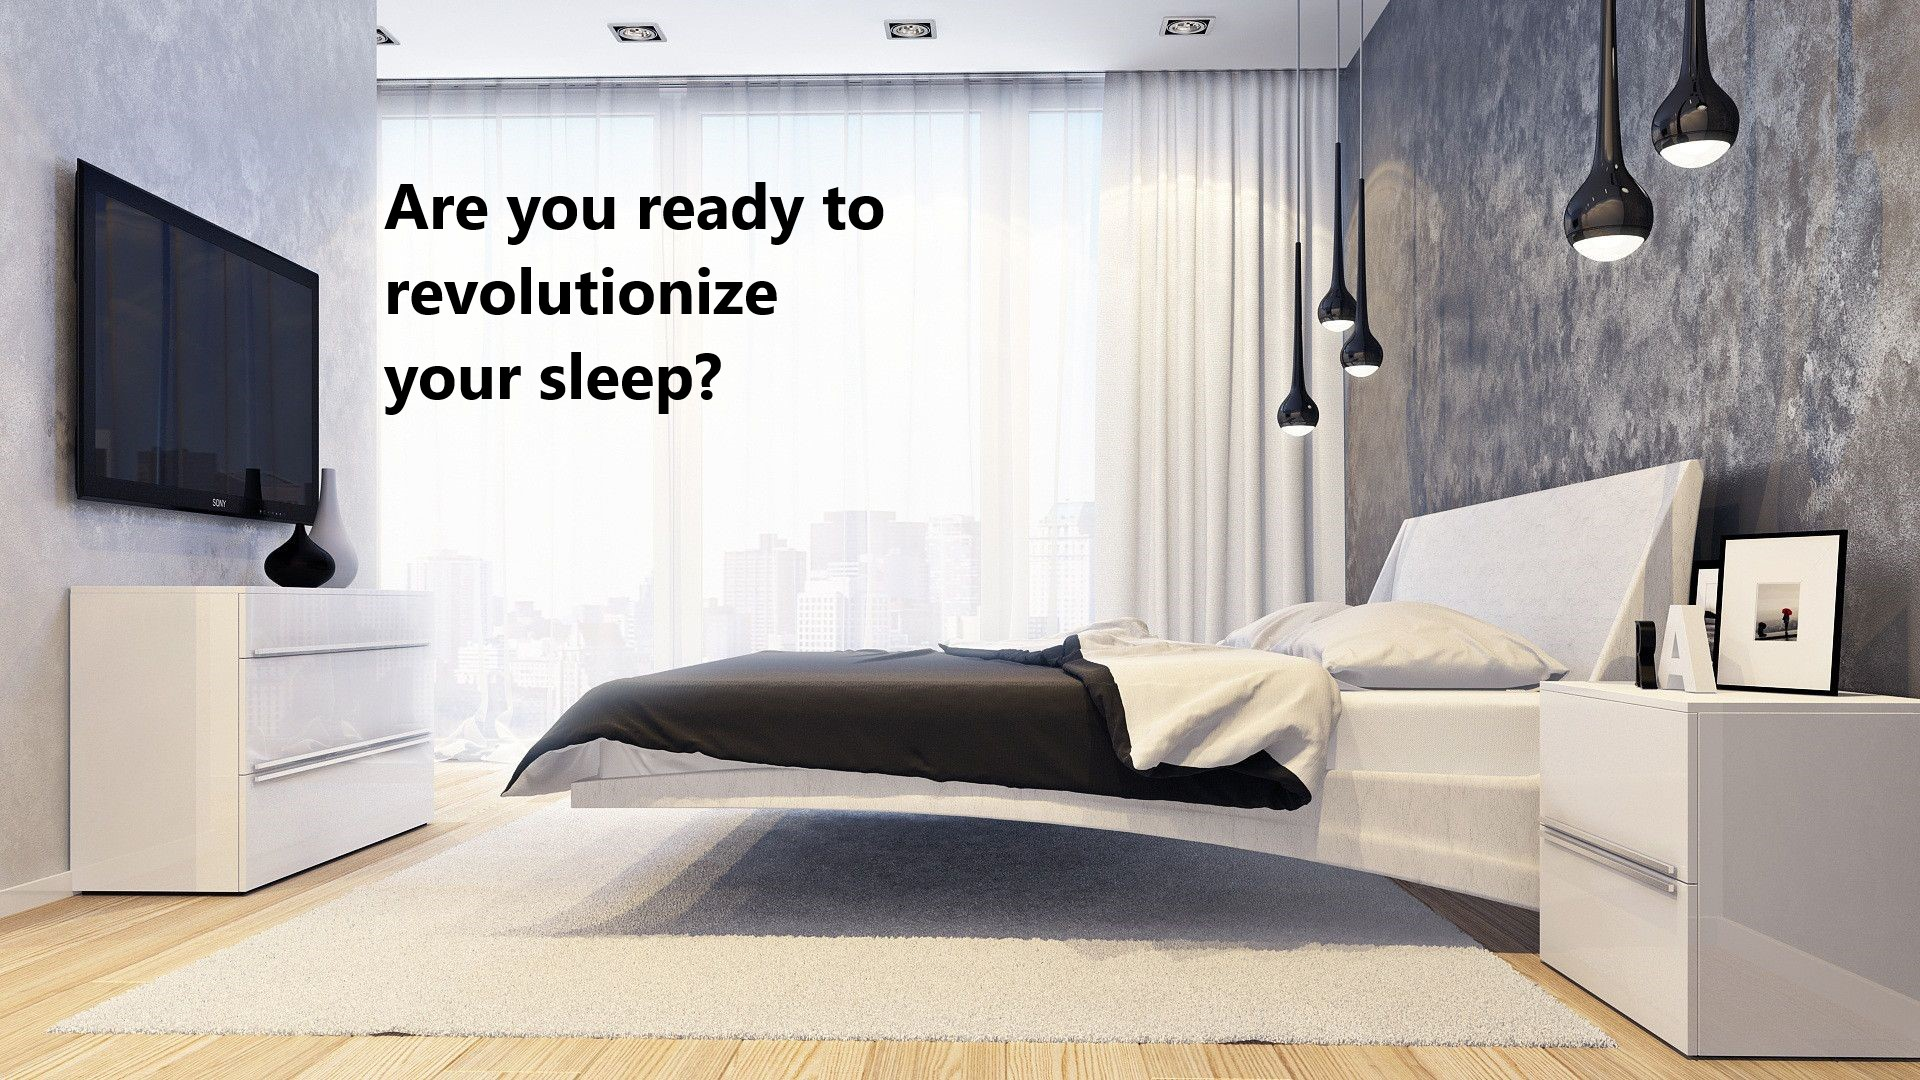
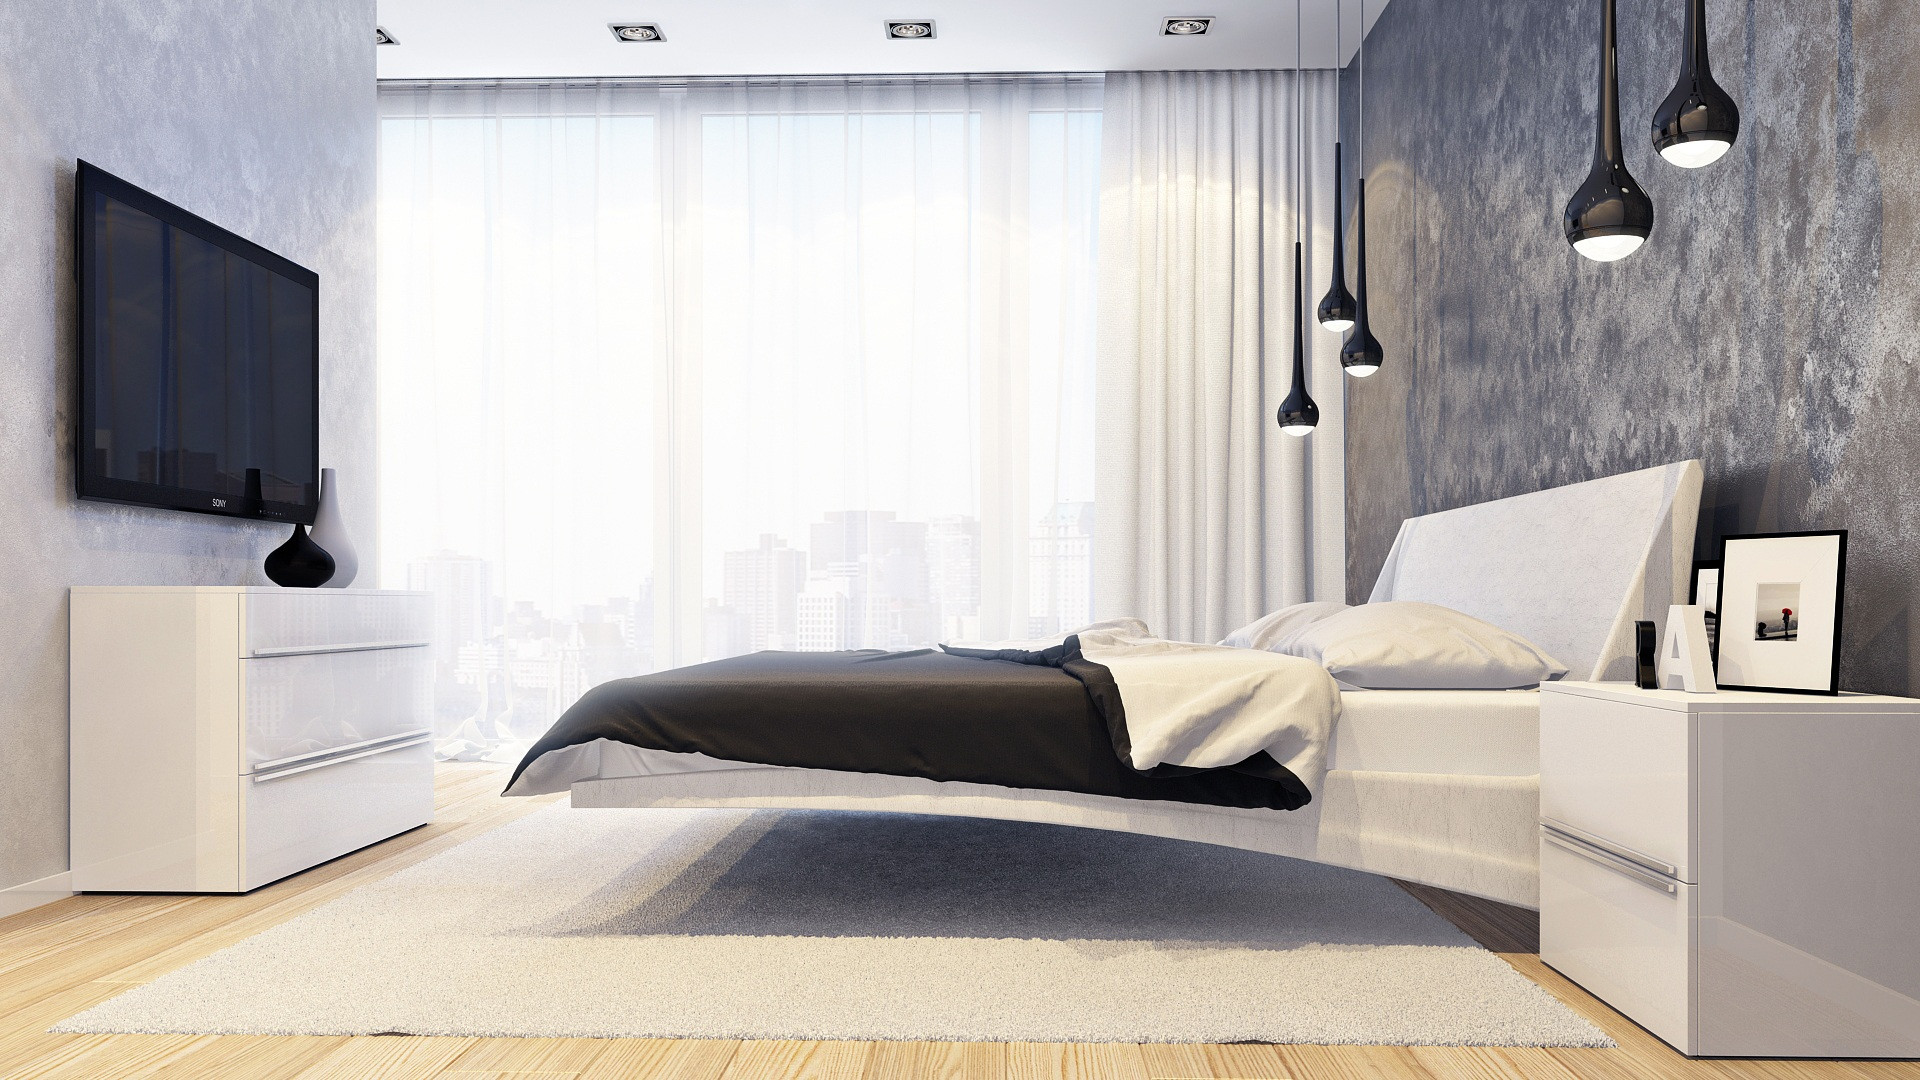
Registration page has been created

Changed region(s): [[0.1875, 0.2444, 0.4062, 0.3972], [0.1875, 0.1528, 0.4688, 0.2139]]

diff --git a/src/components/home/LandPage.vue b/src/components/home/LandPage.vue
@@ -1,5 +1,6 @@
 <template>
   <div id='home-background'>
+      <div id='tag-line'>Are you ready to revolutionize your sleep?</div>
       <div id='home-login'>
           <div id='signup-text'>Sign up now to start the journey</div>
           <input id='firstname' type='text' placeholder="First Name">
@@ -14,24 +15,27 @@
 </template>
 
 <script>
+import './signUpCheck.js'
+import signUpCheck from './signUpCheck.js'
 export default {
     name: 'LandPage',
     mounted(){
         console.log("Width", window.innerWidth)
         this.$nextTick(()=>{
-            if(window.innerWidth < 1500){
+            if(window.innerWidth < 1500 && window.innerWidth > 850){
                 this.mediumConfig()
             }
         })
     },
     methods: {
+        // At 850 we need a small config
         mediumConfig() {
             document.getElementById('home-login').style.height = '45vh'
             document.getElementById('home-login').style.width = '28vw'
-            document.getElementById('bottom-text').style.left = '15%'
+            document.getElementById('bottom-text').style.marginTop = '12vh'
         },
         signUpClicked (){
-            console.log("The sign up button was clicked")
+            signUpCheck(document.getElementById('firstname').value,document.getElementById('lastname').value,document.getElementById('email').value)
         }
     }
 }
@@ -39,9 +43,19 @@ export default {
 
 <style scoped>
 #home-background{
+    font-family: 'Roboto', sans-serif;
     height: 92vh;
     width: 100vw;
-    background-color: #03045e;
+    background-image: url("../../assets/Bedroom.jpg");
+    background-size: 100vw 92vh;
+}
+#tag-line{
+    position: absolute;
+    top: 25vh;
+    left: 20vw;
+    font-size: 5vh;
+    font-weight: bold;
+    width: 25vw;
 }
 #home-login{
     position: absolute;
@@ -49,20 +63,19 @@ export default {
     left: 60vw;
     height: 35vh;
     width: 26vw;
-    background-color: #0077b6;
+    background-color: #17183B;
     border-radius: 2vh;
 }
 #signup-text{
-    position: relative;
-    top: 3vh;
-    margin-left: 15%;
+    margin-top: 2vh;
+    text-align: center;
     color: white;
     font-size: 3vh;
 }
 #firstname{
     width: 8vw;
     height: 3vh;
-    margin-top: 6vh;
+    margin-top: 5vh;
     margin-left: 15%;
     border-radius: 5px;
 }
@@ -78,21 +91,37 @@ export default {
     margin-left: 15%;
     border-radius: 5px;
 }
-#submitButton{
+#submitButton {
     width: 19vw;
-    height: 3vh;
+    height: 5vh;
     margin-left: 15%;
-    border-radius: 1vh;
-    transition-duration: 0.5s;
+	box-shadow:inset 0px -3px 7px 0px #29bbff;
+	background:linear-gradient(to bottom, #2dabf9 5%, #0688fa 100%);
+	background-color:#2dabf9;
+	border-radius:3px;
+	border:1px solid #0b0e07;
+	display:inline-block;
+	cursor:pointer;
+	color:#ffffff;
+	font-family:Arial;
+	font-size:15px;
+	padding:9px 23px;
+	text-decoration:none;
+	text-shadow:0px 1px 0px #263666;
 }
-#submitButton:hover{
-    background-color: #A3CEF1;
+#submitButton:hover {
+	background:linear-gradient(to bottom, #0688fa 5%, #2dabf9 100%);
+	background-color:#0688fa;
+}
+#submitButton:active {
+	position:relative;
+	top:1px;
 }
 #bottom-text{
     color: white;
-    position: absolute;
-    bottom: 0;
-    left: 20%;
+    margin-top: 6vh;
+    font-size: 1.5vh;
+    text-align: center;
 }
 #bottom-text a{
     color: white;

diff --git a/src/components/register/Registration.vue b/src/components/register/Registration.vue
@@ -1,0 +1,86 @@
+<template>
+  <div id='registration'>
+      <div id='registration-box'>
+      <div id='header'>Register</div>
+        <input id='firstname' class='left' type='text' placeholder="First Name">
+        <input id='lastname' type='text' placeholder="Last Name">
+        <br>
+        <input id='email' class='left' type='text' placeholder="E-Mail"> 
+        <br>
+        <input id='password' class='left' type='text' placeholder="Password"> 
+        <input id='confirmPassword' type='text' placeholder="Confirm Password">  
+        <br>
+        <button id='submitButton'>Sign Up</button>
+      </div>
+  </div>
+</template>
+
+<script>
+export default {
+    name: 'Registration',
+    mounted (){
+        this.$nextTick(()=>{
+            console.log(document.cookie)
+        })
+    }
+}
+</script>
+
+<style>
+#registration{
+    height: 92vh;
+    background-color: #ADD7F6;
+}
+#registration-box{
+    margin: 0 auto;
+    position: relative;
+    top: 10vh;
+    width: 35vw;
+    background-color: white;
+}
+#header{
+    padding-top: 2vh;
+    margin-bottom: 8vh;
+    font-size: 5vh;
+    font-weight: bold;
+    text-align: center;
+}
+#registration-box input{
+    height: 3vh;
+    margin-top: 2vh;
+    margin-right: 1vw;
+    width: 10vw;
+
+}
+.left{
+    margin-left: 20%;
+}
+#submitButton {
+    margin-top: 5vh;
+    margin-bottom: 2vh;
+    width: 22vw;
+    height: 5vh;
+    margin-left: 20%;
+	box-shadow:inset 0px -3px 7px 0px #29bbff;
+	background:linear-gradient(to bottom, #2dabf9 5%, #0688fa 100%);
+	background-color:#2dabf9;
+	border-radius:3px;
+	border:1px solid #0b0e07;
+	display:inline-block;
+	cursor:pointer;
+	color:#ffffff;
+	font-family:Arial;
+	font-size:15px;
+	padding:9px 23px;
+	text-decoration:none;
+	text-shadow:0px 1px 0px #263666;
+}
+#submitButton:hover {
+	background:linear-gradient(to bottom, #0688fa 5%, #2dabf9 100%);
+	background-color:#0688fa;
+}
+#submitButton:active {
+	position:relative;
+	top:1px;
+}
+</style>

diff --git a/public/index.html b/public/index.html
@@ -10,7 +10,7 @@
     <meta http-equiv="X-UA-Compatible" content="IE=edge">
     <meta name="viewport" content="width=device-width,initial-scale=1.0">
     <link rel="icon" href="<%= BASE_URL %>favicon.ico">
-    <link href="https://fonts.googleapis.com/css2?family=Titillium+Web&display=swap" rel="stylesheet">
+    <link href="https://fonts.googleapis.com/css2?family=Roboto&family=Titillium+Web&display=swap" rel="stylesheet">
     <title><%= htmlWebpackPlugin.options.title %></title>
   </head>
   <body>

diff --git a/src/router/index.js b/src/router/index.js
@@ -1,6 +1,7 @@
 import Vue from 'vue'
 import VueRouter from 'vue-router'
 import Home from '../views/Home.vue'
+import Register from '../views/Register.vue'
 
 Vue.use(VueRouter)
 
@@ -9,6 +10,11 @@ const routes = [
     path: '/',
     name: 'Home',
     component: Home
+  },
+  {
+    path: '/register',
+    name: 'Register',
+    component: Register
   },
 ]
 

diff --git a/src/views/Register.vue b/src/views/Register.vue
@@ -1,0 +1,15 @@
+<template>
+  <div class="register">
+      <Registration />
+  </div>
+</template>
+
+<script>
+import Registration from '@/components/register/Registration'
+export default {
+  name: 'Register',
+  components: {
+    Registration
+  }
+}
+</script>

diff --git a/src/components/home/signUpCheck.js b/src/components/home/signUpCheck.js
@@ -1,0 +1,5 @@
+import router from '../../router/index'
+export default function (firstName, lastName, email){
+    document.cookie = `fn=${firstName}, ln=${lastName}, email=${email}`;
+    router.push('register');
+}

diff --git a/Notes.md b/Notes.md
@@ -1,0 +1,7 @@
+# How Things Work
+
+## Sign Up
+
+- When a user clicks the sign up button on the homepage the information is passed to signUpCheck.js in the home components folder
+- After the information is checked for completeness the first name, last name, and email are then stored in a cookie as csv
+- The user is then redirected to the Register router where the Registration component reads from the cookie and sets the values properly on the registration page
